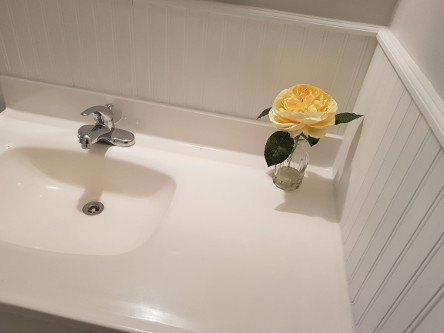
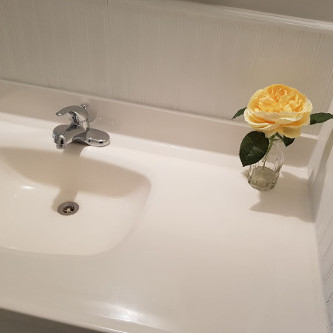
Resized all images.  About Us needs cleanup.  Removed sections.  Changed main image

diff --git a/src/components/App.jsx b/src/components/App.jsx
@@ -1,35 +1,35 @@
-import React, { Component } from 'react'
-import Navigation from './navigation';
-import Header from './header';
-import Features from './features';
-import About from './about';
-import Services from './services';
-import Gallery from './gallery';
-import Testimonials from './testimonials';
-import Team from './Team';
-import Contact from './contact';
-import $ from 'jquery';
+import React, { Component } from "react";
+import Navigation from "./navigation";
+import Header from "./header";
+import Features from "./features";
+import About from "./about";
+import Services from "./services";
+import Gallery from "./gallery";
+import Testimonials from "./testimonials";
+import Team from "./Team";
+import Contact from "./contact";
+import $ from "jquery";
 
 export class App extends Component {
   state = {
-    resumeData : {},
-  }
-  getResumeData(){
+    resumeData: {},
+  };
+  getResumeData() {
     $.ajax({
-      url:'/data.json',
-      dataType:'json',
+      url: "/data.json",
+      dataType: "json",
       cache: false,
-      success: function(data){
-        this.setState({resumeData: data});
+      success: function (data) {
+        this.setState({ resumeData: data });
       }.bind(this),
-      error: function(xhr, status, err){
+      error: function (xhr, status, err) {
         console.log(err);
         alert(err);
-      }
+      },
     });
   }
 
-  componentDidMount(){
+  componentDidMount() {
     this.getResumeData();
   }
 
@@ -37,17 +37,17 @@ export class App extends Component {
     return (
       <div>
         <Navigation />
-        <Header data={this.state.resumeData.Header}/>
-        <Features data={this.state.resumeData.Features}/>
-        <About  data={this.state.resumeData.About}/>
-        <Services  data={this.state.resumeData.Services}/>
+        <Header data={this.state.resumeData.Header} />
+        <Features data={this.state.resumeData.Features} />
+        <About data={this.state.resumeData.About} />
+        <Services data={this.state.resumeData.Services} />
         <Gallery />
-        <Testimonials  data={this.state.resumeData.Testimonials}/>
-        <Team  data={this.state.resumeData.Team}/>
-        <Contact  data={this.state.resumeData.Contact}/>
+        <Testimonials data={this.state.resumeData.Testimonials} />
+        <Team data={this.state.resumeData.Team} />
+        <Contact data={this.state.resumeData.Contact} />
       </div>
-    )
+    );
   }
 }
 
-export default App
+export default App;

diff --git a/src/App.jsx b/src/App.jsx
@@ -1,21 +1,19 @@
-import React, { Component } from 'react'
-import Navigation from './components/navigation';
-import Header from './components/header';
-import Features from './components/features';
-import About from './components/about';
-import Services from './components/services';
-import Gallery from './components/gallery';
-import Testimonials from './components/testimonials';
-import Team from './components/Team';
-import Contact from './components/contact';
-import JsonData from './data/data.json';
+import React, { Component } from "react";
+import Navigation from "./components/navigation";
+import Header from "./components/header";
+import About from "./components/about";
+import Services from "./components/services";
+import Gallery from "./components/gallery";
+import Testimonials from "./components/testimonials";
+import Contact from "./components/contact";
+import JsonData from "./data/data.json";
 
 export class App extends Component {
   state = {
     landingPageData: {},
-  }
+  };
   getlandingPageData() {
-    this.setState({landingPageData : JsonData})
+    this.setState({ landingPageData: JsonData });
   }
 
   componentDidMount() {
@@ -27,15 +25,13 @@ export class App extends Component {
       <div>
         <Navigation />
         <Header data={this.state.landingPageData.Header} />
-        <Features data={this.state.landingPageData.Features} />
         <About data={this.state.landingPageData.About} />
         <Services data={this.state.landingPageData.Services} />
         <Gallery />
         <Testimonials data={this.state.landingPageData.Testimonials} />
-        <Team data={this.state.landingPageData.Team} />
         <Contact data={this.state.landingPageData.Contact} />
       </div>
-    )
+    );
   }
 }
 
